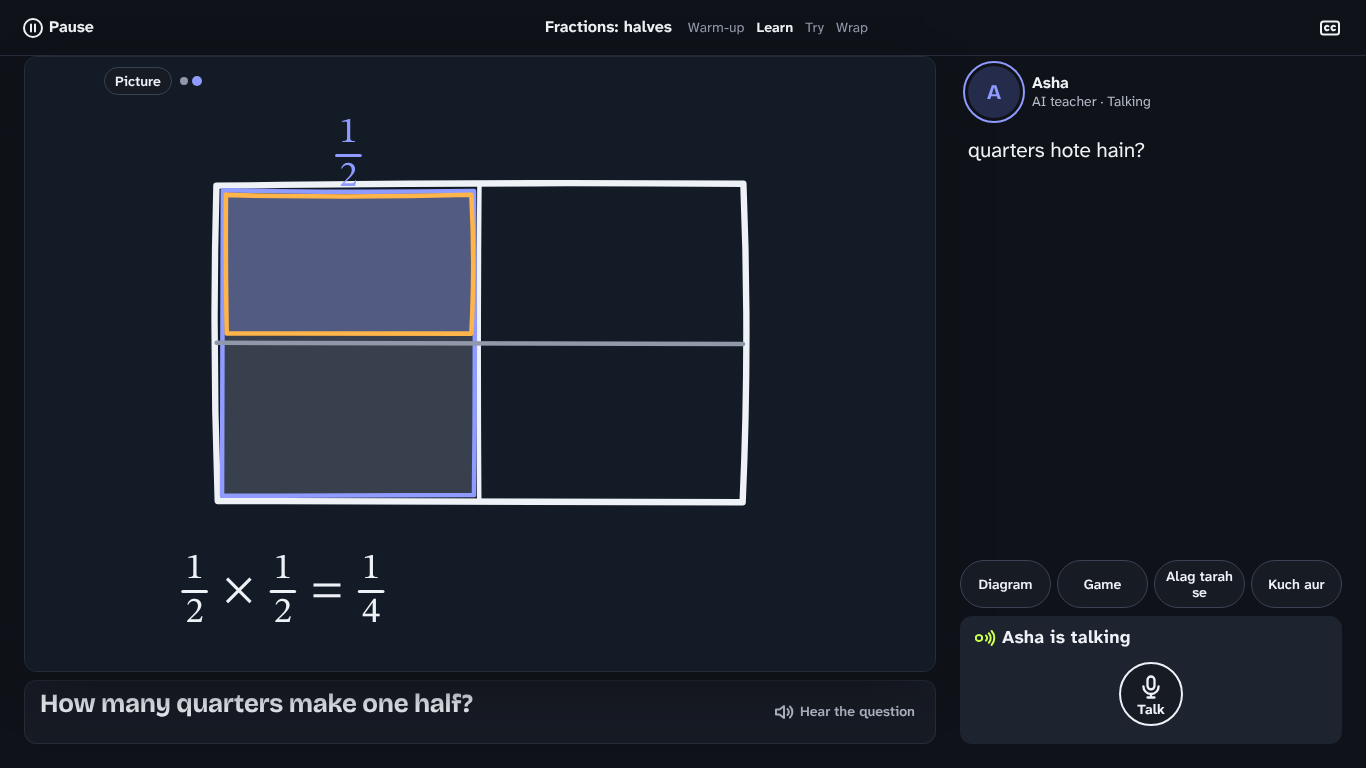
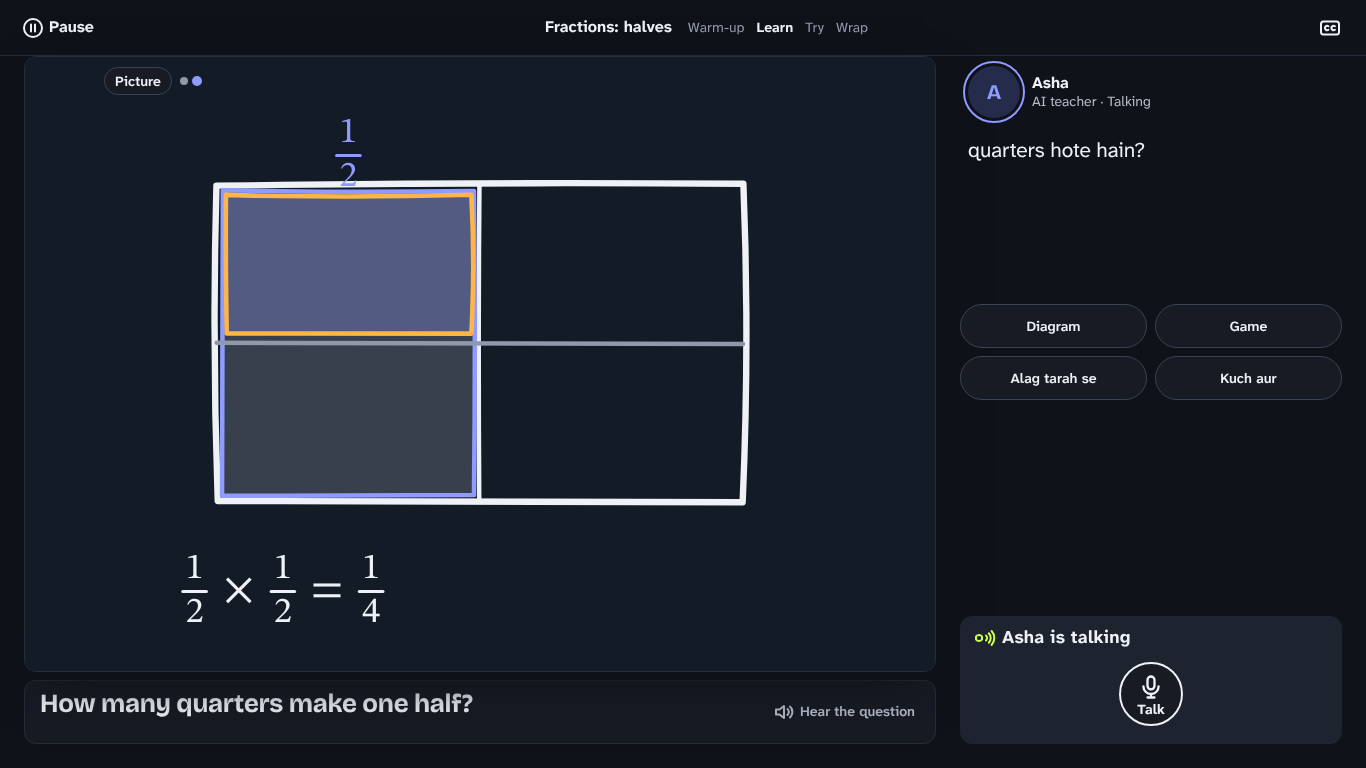
r8 step b fix-ups (main's review): the board fills its card, one-line chips, wide caption then chips, colour-blind-safe roles, Studio patch 008
- the plain board centres its lines and scales the maths to the card (container units)
- steer chips: one row of one-line pills on a phone (scrolls, fades at its end); a 2 x 2 grid of equal cells on wide
- wide presence: the caption holds her last lines, the chips sit under it, the dock stays at the foot
- theme A roles: answer bluish green #0B7356, mix-up ochre #8A5A00 (Okabe-Ito; no red against green)
- docs/patches/to-studio/008-board-fills-card: fold the card head into the card, fit content to the box, the 1/2 label fault, the role palette values and designed fill tints
- phase2 README: the fixture's 1/2 = 2/4 is fake data; after-* images re-taken

Claude-Session: https://claude.ai/code/session_01Uk49bxrTEZwcythVVF5YDe

diff --git a/src/ui-v3/r8/lesson.css b/src/ui-v3/r8/lesson.css
@@ -47,6 +47,11 @@
 .kx-lesson[data-tx] .ks-piece .dk-chalk { color: var(--tx-board-ink); }
 /* maths set as maths on the plain board: stacked fractions in the maths face (Board.tsx mathRuns) */
 .kx-lesson[data-tx] .dk-chalk--math { font-family: var(--tx-font-math); font-weight: 400; font-size: var(--tx-t-6); letter-spacing: 0; }
+/* the plain board fills its card: its lines centred, the maths scaled to the card (container units, like the drawn
+   board's viewBox: board content scales with its box, the chrome keeps the 8-size scale) */
+.kx-lesson[data-tx] .ks-piece .dk-board { container-type: size; }
+.kx-lesson[data-tx] .ks-piece .dk-board-body { display: flex; flex-direction: column; justify-content: center; align-items: center; text-align: center; gap: var(--tx-s-4); }
+.kx-lesson[data-tx] .ks-piece .dk-chalk--math { font-size: clamp(var(--tx-t-6), 16cqmin, var(--tx-t-8)); }
 .kx-lesson[data-tx] .dk-frac { display: inline-flex; flex-direction: column; align-items: stretch; vertical-align: middle; text-align: center; line-height: 1.05; margin: 0 .1em; }
 .kx-lesson[data-tx] .dk-frac-n { border-bottom: max(2px, .07em) solid currentColor; padding: 0 .14em .04em; }
 .kx-lesson[data-tx] .dk-frac-d { padding: .06em .14em 0; }
@@ -75,6 +80,17 @@
 .kx-lesson[data-tx] .dk:is([data-floor="your_turn"], [data-floor="listening"]) .ks-rail { outline: 1.5px solid var(--tx-line-2); box-shadow: var(--tx-shadow-2); }
 
 /* ── steer chips: quiet pills, the child's own words ── */
+/* one row, never a pill taller than its neighbour: labels stay on one line and the row scrolls when it must (main's
+   review of step b: "Alag tarah se" wrapped and made the row uneven at 360) */
+.kx-lesson[data-tx] .ks-steer { display: flex; gap: var(--tx-s-2); overflow-x: auto; scrollbar-width: none; overscroll-behavior-x: contain; }
+.kx-lesson[data-tx] .ks-steer::-webkit-scrollbar { display: none; }
+/* wide: the side column gives the chips two rows, a 2 × 2 grid of equal cells */
+.kx-lesson[data-tx] .ks:is([data-kind="wide"], [data-kind="landscape"]) .ks-steer { display: grid; grid-auto-flow: row; grid-template-columns: 1fr 1fr; grid-auto-rows: 44px; align-content: center; overflow: visible; }
+.kx-lesson[data-tx] .ks:is([data-kind="wide"], [data-kind="landscape"]) .ks-chip { width: 100%; }
+/* the row fades at its end when it scrolls on, so a cut pill reads as "more", not as clipped */
+.kx-lesson[data-tx] .ks[data-kind="phone"] .ks-steer { -webkit-mask-image: linear-gradient(90deg, black 82%, transparent); mask-image: linear-gradient(90deg, black 82%, transparent); padding-right: var(--tx-s-6); }
+.kx-lesson[data-tx] .ks-chip { flex: none; white-space: nowrap; padding: 0 var(--tx-s-4); height: 44px; }
+.kx-lesson[data-tx] .ks-chip svg { display: none; }
 .kx-lesson[data-tx] .ks-chip { border: 1.5px solid var(--tx-line-2); border-radius: var(--tx-r-3); background: var(--tx-surface); color: var(--tx-ink); font: 600 var(--tx-t-1)/1.15 var(--tx-font-ui); }
 .kx-lesson[data-tx] .ks-chip svg { color: var(--tx-ink-2); }
 .kx-lesson[data-tx] .ks-chip:hover { border-color: var(--tx-tutor); }

diff --git a/src/ui-v3/kaksha/lesson/stageLayout.ts b/src/ui-v3/kaksha/lesson/stageLayout.ts
@@ -77,7 +77,7 @@ export const STAGE = {
   pipShare: 0.26, pipMin: 84, pipMax: 128, pipInset: 8,
   sideMin: 320, sideMax: 400, sideShare: 0.28,
   wideMinWidth: 900, landscapeMaxHeight: 520,
-  talk: 60, presenceRow: 72,
+  talk: 60, presenceRow: 72, capPresence: 168,
 } as const;
 
 const clamp = (n: number, lo: number, hi: number) => Math.max(lo, Math.min(hi, n));
@@ -149,7 +149,8 @@ function solveWide(i: StageInput, fs: number, tall: boolean): StageLayout {
   // side column: tile (tall only) · caption (elastic) · answer (when up, if it fits there) · chips · strip · dock
   const sx = W - g - side;
   const dock = Math.round((tall ? STAGE.dockWide : STAGE.dock[i.family]) + 44 * (fs - 1));
-  const chips = i.chips && !i.play ? Math.round(STAGE.chips * Math.min(fs, 1.3)) : 0;
+  // round 8 presence: the side column has the height for the steer chips as a 2 × 2 grid of equal cells (never a cut row)
+  const chips = i.chips && !i.play ? Math.round(STAGE.chips * Math.min(fs, 1.3) * (i.presence ? 2 : 1)) : 0;
   const strip = need(i.strip);
   const tileBase = i.presence ? STAGE.presenceRow : tall ? Math.round(clamp(colH * 0.42, 200, side)) : 0;
   const hasTile = tall || !!i.presence;
@@ -170,7 +171,11 @@ function solveWide(i: StageInput, fs: number, tall: boolean): StageLayout {
   const railGap = i.presence ? STAGE.gap : 0;
   const slot: Rect = { x: stage.x, y: stage.y, w: stage.w, h: stage.h - rail - railGap };
   const railR: Rect = { x: stage.x, y: slot.y + slot.h + railGap, w: stage.w, h: rail };
-  const capH = Math.max(0, sideFree - (answerSide ? answer : 0));
+  // round 8 presence: the caption holds her last lines (capPresence), the chips sit right under it (steering what she
+  // just said), and the dock stays at the column's foot; whatever is left is one quiet gap above the dock, never between
+  // her words and the chips
+  const capFree = Math.max(0, sideFree - (answerSide ? answer : 0));
+  const capH = i.presence ? Math.min(capFree, Math.round(STAGE.capPresence * fs)) : capFree;
   let y = top;
   const tile = hasTile ? { x: sx, y, w: side, h: tileH } : null;
   if (hasTile) y += tileH + STAGE.gap;
@@ -181,6 +186,7 @@ function solveWide(i: StageInput, fs: number, tall: boolean): StageLayout {
   if (answerUnder) answerR = { x: g, y: stage.y + stage.h + STAGE.gap, w: colW, h: answer };
   const chipsR = chips ? { x: sx, y, w: side, h: chips } : null;
   if (chips) y += chips + STAGE.gap;
+  if (i.presence) y = top + colH - dock - strip;
   const stripR = strip ? { x: sx, y, w: side, h: strip } : null;
   y += strip;
   const dockR = { x: sx, y, w: side, h: dock };

diff --git a/src/styles/tx-tokens.css b/src/styles/tx-tokens.css
@@ -3,6 +3,9 @@
    The values are the phase-1 prototypes' (prototypes/r8-design/{a-paper,b-night}/tokens.css). Two deliberate changes:
      - A's serif is Literata, already self-hosted (src/styles/fonts.css), in place of the prototype's Source Serif 4: one face fewer to ship.
      - B's display face is Bricolage Grotesque where the page has it, else the UI face.
+     - (2026-11-11, main's review of step b) A's answer is a bluish green and its mix-up an ochre: the
+       prototype's rust beside green leaned on red against green. Focus (indigo), answer (bluish green) and mix-up
+       (ochre) follow the Okabe-Ito colour-blind-safe set, and every role also has its own shape.
    Rules (tests/r8-tx-tokens.test.mjs):
      - every text pair is at least 4.5:1 (5:1 for running text);
      - at most 8 type sizes, one spacing scale, 3 radii, under 30 colours per theme;
@@ -35,10 +38,10 @@
   --tx-board-soft: #6F675B;
   --tx-focus: #3B47B0;
   --tx-focus-fill: #DCE0F5;
-  --tx-ans: #1C7348;
-  --tx-ans-fill: #DAEEE1;
-  --tx-mix: #A84B22;
-  --tx-ok: #1C7348;
+  --tx-ans: #0B7356;
+  --tx-ans-fill: #DAEFE8;
+  --tx-mix: #8A5A00;
+  --tx-ok: #0B7356;
   /* safety and destructive actions only, never a verdict */
   --tx-danger: #A3261C;
 

diff --git a/docs/patches/to-studio/008-board-fills-card/README.md b/docs/patches/to-studio/008-board-fills-card/README.md
@@ -1,0 +1,66 @@
+# to-studio 008: the board fills its card under the round 8 theme
+
+**From:** Design (r8). **For:** C1 Studio, owner of `src/studio/**`, `src/modules/whiteboard/**`, `shared/whiteboard.js` and `server/forge/explainer/**`.
+**Why:** the main loop reviewed the round 8 lesson screen (`?tx=a`, phase 2 step b) and found the board does not fill its card. "The board is the hero only if its content is scaled to the card."
+**Images:**
+- `before-p360.png` and `before-d1366.png`: today, under `?tx=a`.
+- `after-mock-p360.png` and `after-mock-d1366.png`: a mock made in the browser, not code. The header is moved into the card's top edge, the box is the whole card, and the drawing's viewBox is cropped to its content.
+
+The fixture is `src/ui-v3/kaksha/dev/desk.html?class=5&fixture=work-beat&tx=a`.
+
+These are asks, not a diff. You are reworking the board's role palette right now, so a diff from me would collide with that work.
+
+## 1. Fold the card head into the board card's top edge
+
+`StudioStage` reserves `CARD_HEAD_PX` (34, or 38 for young children) above the box for the "Picture" chip and the beat dots. It then letterboxes a 400 × 300 board inside what is left. At 360 px that makes a band of about 40 px over the head and another under the drawing.
+
+The ask: under a round 8 root (`.kx-lesson[data-tx]`), draw the head over the box's top-left corner and give the box the whole slot. The head is small: about 28 px tall and left-aligned. The drawing then needs a clear zone of the head's size in that corner. `--pip-zone-*` already does this for the bottom-right corner, so the same pattern can serve a `--head-zone-*` at the top-left.
+
+## 2. Scale the content to the box, not the board's nominal 400 × 300
+
+What the card needs from the renderer: a viewBox fitted to the drawn content's bounding box plus a margin (about 14 board units in the mock), letterboxed `xMidYMid meet` into the box.
+
+The mock shows the gain: the same board is about 15 to 20 % larger at 360 px, limited by width. `boardFit` already scales geometry while keeping words at the 14 px floor, so it may be the place to add "fit to content, then to the box".
+
+Keep the rule you already keep: never re-lay a drawing out mid-animation. The fitted viewBox should be fixed once per piece, from the final frame's bounding box.
+
+## 3. Fault: the "1/2" label over the shaded half touches the rectangle
+
+The "2" of the brace label's denominator sits on the square's top line. You can see it at both sizes, in `before-*` and more clearly in `after-mock-*`. It is a layout fault: a label's box must keep clear of the stroke it names by at least the label gap that `lintScript` uses for overlaps.
+
+## 4. The palette: the three meaning roles, agreed values
+
+The main loop asked us to settle the three roles so they are distinct without leaning on red against green. Every role keeps its own shape as well as its colour:
+- focus: an outline and a tint;
+- slot: a dashed box;
+- answer: a tick or a ring;
+- mixup: a dashed line.
+
+Round 8 tokens (`src/styles/tx-tokens.css`), as of this patch:
+
+| role (shared/whiteboard.js ROLE) | A "paper" (default) | B "night" | token |
+|---|---|---|---|
+| ground | `#FFFDF8` | `#131B26` | `--tx-board` |
+| ink | `#1C1A16` | `#F3F1EA` | `--tx-board-ink` |
+| muted | `#6F675B` | `#8F9CAE` | `--tx-board-soft` |
+| focus (stroke) | `#3B47B0` indigo | `#8F9BFF` | `--tx-focus` |
+| focus (fill) | `#DCE0F5` | `#283260` | `--tx-focus-fill` |
+| slot and answer | `#0B7356` bluish green | `#4FE0A2` | `--tx-ans` |
+| slot fill | `#DAEFE8` | `#133A2D` | `--tx-ans-fill` |
+| mixup | `#8A5A00` ochre | `#FFB54A` amber | `--tx-mix` |
+
+**What changed for A:** answer moved from `#1C7348` to the bluish green `#0B7356`, and mixup from rust `#A84B22` to ochre `#8A5A00`. Focus, answer and mix-up now follow the Okabe-Ito colour-blind-safe set (blue, bluish green, orange). Every pair is measured at 5.2:1 or better on the ground (`tests/r8-tx-tokens.test.mjs`).
+
+**Your PAPER role table** in `src/modules/whiteboard/palette.ts` still carries the phase 1 values (`answer #1C7348`, `mixup #A84B22`). Please take the new ones.
+
+**Why the board reads "muddy" today:** a fill is drawn as the stroke colour at `fillAlpha` (0.26 or 0.3) on paper. Indigo at 0.3 over warm paper turns lilac-grey, and next to the grey ink fill of the other quarter it reads muddy.
+
+The ask: read a designed tint for focus and slot fills (`--tx-focus-fill`, `--tx-ans-fill`) when the page has them, instead of stroke × alpha. The `muted` fill stays a light tint of the board's soft ink.
+
+**How the board gets these today, with no Studio edit:** `src/ui-v3/r8/bridge.css` points `--k-ion` → `--tx-focus`, `--k-secure` → `--tx-ans`, `--k-look` → `--tx-mix`, `--k-ink-3` → `--tx-ink-3`, `--k-deep` → `--tx-board` and `--k-ink` → `--tx-ink` under `[data-tx]`. Your `kakshaBoardSkin` reads those names.
+
+When your role palette lands, reading `--tx-*` directly would be cleaner. The names are in the table, and `watchSkin` should then also watch `data-tx`.
+
+## 5. Also seen: the dev fixture's own data
+
+On `work-your_turn`, the plain board shows "1/2 = 2/4" while the question asks how many quarters make one half. That is the dev fixture's scenario (`src/child/lesson/dev/DeskDev.tsx`), not a product board. No action is needed from Studio.

diff --git a/docs/design/round8/phase2/README.md b/docs/design/round8/phase2/README.md
@@ -68,7 +68,20 @@ Each name is `<when>-<screen>-<size>.png`:
   - `lesson-idle`: nothing up, her turn (`your_turn`).
 - **size:** `p360` is 360 × 740 @2x; `d1366` is 1366 × 768.
 
+**About the fixture data:** the board contents and lines are the dev fixtures' (`src/child/lesson/dev/DeskDev.tsx`), not a real lesson. In particular `lesson-turn` shows "1/2 = 2/4" on the board while the question asks how many quarters make one half. That is the fake scenario's data, not the product giving the answer away.
+
 They were taken from the Kaksha Desk dev page (`src/ui-v3/kaksha/dev/desk.html?class=5&fixture=…&tx=…`, the real Desk and skin), with reduced motion on.
+
+## Fix-ups after the main loop's review of step b (2026-11-11)
+
+1. **The plain board fills its card:** its lines are centred and the maths is scaled to the card. Studio pieces (the drawn board) need Studio's renderer to fit content to the box and to fold the card head into the card. That ask is a patch: `docs/patches/to-studio/008-board-fills-card/`, with before and mock-after images.
+2. **The "1/2" label touches the square's top line.** This is Studio's layout, reported as a fault in the same patch.
+3. **The steer chips are one row, every pill one line high.** On a phone the row scrolls and fades at its end. There is no 2 × 2 grid, which would cost the board 48 px.
+4. **Wide screens:** the caption holds her last lines (up to 168 px), the chips sit right under it, and the dock stays at the column's foot. The chips steer what she just said, so they belong next to her words. The dock stays where the thumb and the eye expect it on every screen. The spare height is one quiet gap above the dock, never between her words and the chips.
+5. **The palette's three meaning roles:** focus is indigo, answer a bluish green, mix-up an ochre (A). This follows the Okabe-Ito colour-blind-safe set, so it no longer sets red against green. Studio is asked to read designed fill tints instead of stroke × alpha (the patch, §4).
+6. **The fixture's "1/2 = 2/4"** is fake data (see "About the fixture data" above).
+
+`after-*` images are re-taken after these fixes.
 
 ## Not changed (other owners)
 
